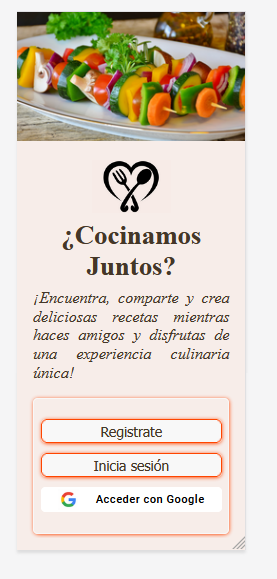
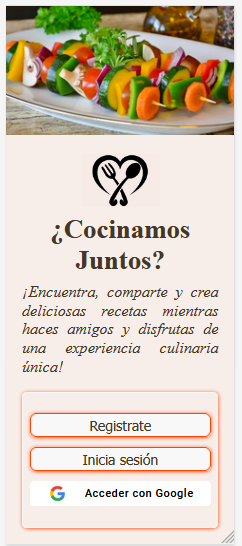
CCS y Readme

diff --git a/src/style.css b/src/style.css
@@ -25,9 +25,6 @@ footer, header, hgroup, menu, nav, section {
 	display: block;
 }
 
-body {
-	line-height: 1;
-}
 ol, ul {
 	list-style: none;
 }
@@ -43,10 +40,22 @@ table {
 	border-collapse: collapse;
 	border-spacing: 0;
 }
+
 /*----------------------*/
 
+ /*HOME*/
+ body {
+  background-color:  #F7EDE9;
+  font-family: 'Times New Roman', sans-serif;
+  margin: 3%;
+  border: 1px solid rgb(248, 248, 248);
+  border-radius: 7px;
+  box-shadow: 0px 0px 5px 0px orangered;
+}
+
 .imgMain {
-  max-width: 100%;
+  max-width: 99.8%;
+  border-radius: 7px;
 }
 
 .container {
@@ -98,7 +107,6 @@ p {
   border-radius: 8px;
   border: 1px solid orangered; 
   background-color:  rgb(248, 248, 248);
-  /*background-color: rgba(251, 253, 253, 0.709);*/
   box-shadow: 0 0 5px orangered; 
   font-size: 1.3em;
   color: #443728;
@@ -128,7 +136,7 @@ p {
 /*Registrarse / Inciciar Sesión*/
 
 .logo3 { 
-  width: 110%;
+  width: 100%;
 }
 
 h2 { 
@@ -161,13 +169,18 @@ input {
 
 /*Posting*/
 
+.inspiration{
+text-align: center;
+}
+
 h4 {
   font-size: 18px;
+  padding: 2%;
 }  
 
 .textTitle{
   display: flex;
-  width: 90%;
+  width: 88%;
   border-radius: 5px;
   padding: 3%;
   margin: 3%;
@@ -175,7 +188,7 @@ h4 {
 }
 .textPost {
   display: flex;
-  width: 90%;
+  width: 88%;
   border-radius: 8px;
   padding: 3%;
   margin: 3%;
@@ -184,6 +197,24 @@ h4 {
 
 input::placeholder {
   color:rgb(179, 176, 176);
+}
+
+.buttonsPrincipalsPost {
+  width: 270px;
+  height: 36px;
+  margin: 3%;
+  border-radius: 8px;
+  border: 1px solid orangered; 
+  background-color:  rgb(248, 248, 248);
+  box-shadow: 0 0 5px orangered; 
+  font-size: 1.3em;
+  color: #443728;
+  margin-left:15%;
+}  
+
+.disfruta{
+  text-align: center;
+  margin-top: 5px;
 }
 
  /*aqui dpnde se imprimen las recetas*/
@@ -274,14 +305,44 @@ h3 {
     border: 1px solid rgb(248, 248, 248);
     border-radius: 7px;
     padding: 2%;
-    margin: 2% 5% 8% 30%;
+    margin: 4% 5% 4% 30%;
     box-shadow: 0px 0px 5px 0px orangered;
     width: 150px;
     height: 20px;    
   }
 
-/* Tablets, Ipads (portrait)
-@media (min-width: 768px) and (max-width: 1024px) { */
+/* Tablets, Ipads (portrait)*/
+@media (min-width: 768px) and (max-width: 1024px) { 
+  .buttonsPrincipalsPost {
+    display: flex;
+    float: center;
+    width: 270px;
+    height: 36px;
+    border-radius: 8px;
+    border: 1px solid orangered; 
+    background-color:  rgb(248, 248, 248);
+    box-shadow: 0 0 5px orangered; 
+    font-size: 1.3em;
+    color: #443728;
+    margin-left:50px;
+    margin-top: 5%;
+    margin-bottom: 8%;
+  } 
+  .section3 {
+    display: flex;
+    flex-direction: column;
+    align-items: center;
+    text-align: center;
+    border: 1px solid rgb(248, 248, 248);
+    border-radius: 7px;
+    padding: 2%;
+    
+    box-shadow: 0px 0px 5px 0px orangered;
+    width: 150px;
+    height: 20px;    
+  }
+
+}
 
 /* Inicio Laptops, Desktops*/
 @media (min-width: 1025px) and (max-width: 1280px) {
@@ -291,7 +352,7 @@ h3 {
   } 
 
   html {
-    margin-top: 8%;
+    margin-top: 15%;
     margin-left: 2%;
     margin-right: 2%;
     border: 1px solid rgb(248, 248, 248);
@@ -305,9 +366,7 @@ h3 {
     background-color:  #F7EDE9;
     font-family: 'Times New Roman', sans-serif;
     display: flex;
-    align-items: center;
-    
-    
+    align-items: center;    
   } 
 
   .imgMain{
@@ -362,19 +421,62 @@ h3 {
   }
 
   /*Posting*/
-
-  .container {
-    height: 900px;
+  .containerPosting {
+    display: flex;
+    flex-direction: column;
+    align-items: center;
+    justify-content: center;
+    margin: 5px 5px 0px 5px;
+    padding: 8px 15px 0px 15px;
+    height: 400px;
+    overflow-y: scroll;
   }
-
+  .textTitle{
+    height: 60px;
+    margin: 0px;
+  }
+  .textPost {
+    height: 120px;
+    margin: 0%;
+  }
+   
   .containerShowPost {
-  height: 300px;
+  height: 600px;
   }
+
+  .buttonsPrincipalsPost {
+    width: 270px;
+    height: 36px;
+    border-radius: 8px;
+    border: 1px solid orangered; 
+    background-color:  rgb(248, 248, 248);
+    box-shadow: 0 0 5px orangered; 
+    font-size: 1.3em;
+    color: #443728;
+    margin-left:8%;
+    margin-top: 5%;
+    margin-bottom: 8%;
+  }  
 
   h4 {
-    margin-top: 20px;
+    margin: 0px;
+    text-align: left;
+    text-align: left;
+    }
+    
+    
+  .section3 {
+    display: flex;
+    flex-direction: column;
+    align-items: center;
+    text-align: center;
+    border: 1px solid rgb(248, 248, 248);
+    border-radius: 7px;
+    padding: 2%;
+    margin: 2% 5% 2% 40%;
+    box-shadow: 0px 0px 5px 0px orangered;
+    width: 150px;
+    height: 20px;    
   }
-  .section3{
-  margin: 0% 0% 5% 20%;
-  }
+
 }

diff --git a/src/components/Posting.js b/src/components/Posting.js
@@ -26,14 +26,14 @@ export const Posting = (onNavigate) => {
   <div>   
     <picture><img src = "./img/Cocinar.jpg" class = "imgMain" alt = "Imagen Cocinando - Cocinemos Juntos "></picture> 
   </div>
-    <section class = "container" id = "container" >
+    <section class = "containerPosting" id = "container" >
       <img class = "logo3" src = "./img/Logo3.png">
-      <p>¡Inspirarás a otros con tu receta!</p>
+      <p class = "inspiration" >¡Inspirarás a otros con tu receta!</p>
       <h4 class = "indication" >Nombre de la Receta:</h4>
       <textarea id = "textTitle" class = "textTitle"  placeholder = "Nombre de la Receta" >  </textarea>
       <h4>Descripción:</h4>
       <textarea id = "textPost" class = "textPost" placeholder = "Comparte tu obra maestra culinaria:ingredientes, pasos, tips." >  </textarea>
-      <button type ="submit" class = "buttonsPrincipals" id = "buttonPost"> Publicar </button>
+      <button type ="submit" class = "buttonsPrincipalsPost" id = "buttonPost"> Publicar </button>
       <p class = "disfruta">¡Descubre deliciosas recetas!<p>
    </section>
    <section class = "containerShowPost" id = "containerShowPost" >

diff --git a/README.md b/README.md
@@ -45,7 +45,10 @@ https://trello.com/b/gOSbciUH/social-network-05
 *Encuesta Incial a Ususarios*
 Para llegar a este tema, se realizó una tormenta de ideas. Posterirmente, para darle forma a la red social se diseñó un cuestionario que nos ayudó a iniciar el proceso de diseño de los prototipo de baja y de alta. a continuacion presentamos los resultados de dicho cuestionario:
 
-COLOCAR FOTOS!!!!!!!!!!!!!!!!!!!!!!!!!!!!!!!!!!!!!!!!!!!!!!!!!!!!!!!!!!!!!!!!!!!!!!!!!!!!!!!!!!!!!!!!!!!!!!!!!!!!!
+![](./ImagenReadme/Encuesta1.png)
+
+
+![](./ImagenReadme/Encuesta2.png)
 
 *Perfil de usuario*
 
@@ -107,17 +110,29 @@ A continuacion una vista del diseño de alta para pantallas de computadoras de e
 ![](./ImagenReadme/ProtAltaDesktop.png).
 
 #### Desarrollo del Proyecto
-El para el desarrollo del proyecto y siguiendo la guía enregada por laboratoria se diseñó Fis¿rt Mobile para luego hacerlo responsive a otros tamaños de pantalla.
+El para el desarrollo del proyecto y siguiendo la guía enregada por laboratoria se diseñó First Mobile para luego hacerlo responsive a otros tamaños de pantalla.
 
-#### test de Usuarios.
-FOTOS!!!!!!!!!!!!!!!!!!!!!!!!!!!!!!!!!!!!!!!!!!!!!!!!!!!!!!!!!!!!!!!!!!!!!!!!!!!!
+#### Test de Usuarios.
+
 
 #### Pruebas unitarias (unit tests)
-FOTOS!!!!!!!!!!!!!!!!!!!!!!!!!!!!!!!!!!!!!!!!!!!!!!!!!!!!!!!!!!!!!!!!!!!!!!!!!!!!
+Las pruebas unitarias contienen 15 test de funciones del código
 
 ## 5. Boilerplate
 El boilerplate contiene una estructura de archivos:
-FOTOS!!!!!!!!!!!!!!!!!!!!!!!!!!!!!!!!!!!!!!!!!!!!!!!!!!!!!!!!!!!!!!!!!!!!!!!!!!!!!!!!!!!!!!!!!!
+![](./ImagenReadme/Carpetas.png).
+
+Componets: contiene todo el código de cada una de las historias de usuarios. Las pantallas de:
+   * Home.js: dónde se presenta la aplicacion al usuario, en ella puede decidir si ir a la pantalla inciciar sesión o a la de registrarse y como tercera opcion acceder directamente con google.
+   * Resgiter.js: pantala para registro con correo y contraseña.
+   * Login.js: pantalla para dar inicio de sesión e ingresar a la aplicación.
+   * Posting.js: dónde se encuentra el corazón de la plicacion en ella puede el usuario consutar recetas puplicadas y dar likes. asi mismo puede publicar su propia receta, borrarla o editarla.
+
+Firebase.js: contiene toda la logica de conexcion con el servicio de firebase y firestore que interactua con la funcionalidad de la aplicación.
+
+Main.js: en la cual están todos los lonks o conexiones entre las distintas vistas SPA.
+
+Index.HTLM:contiene el esqueleto general de la aplicación.
 
 ## 6. Objetivos de aprendizaje
 Como parte del proceso de aprendizaje Laboratoria establece los siguientes items:
